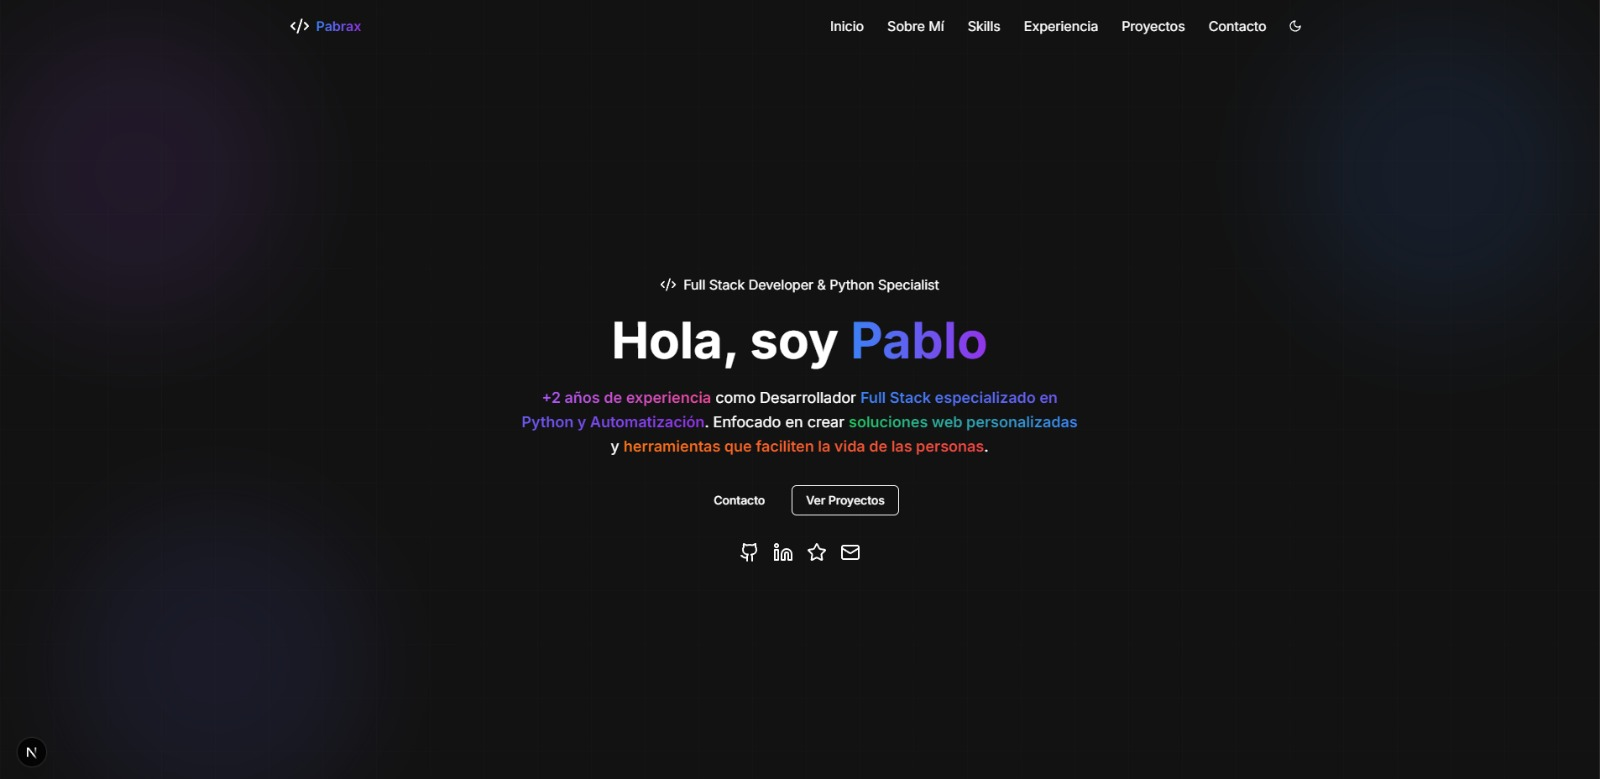
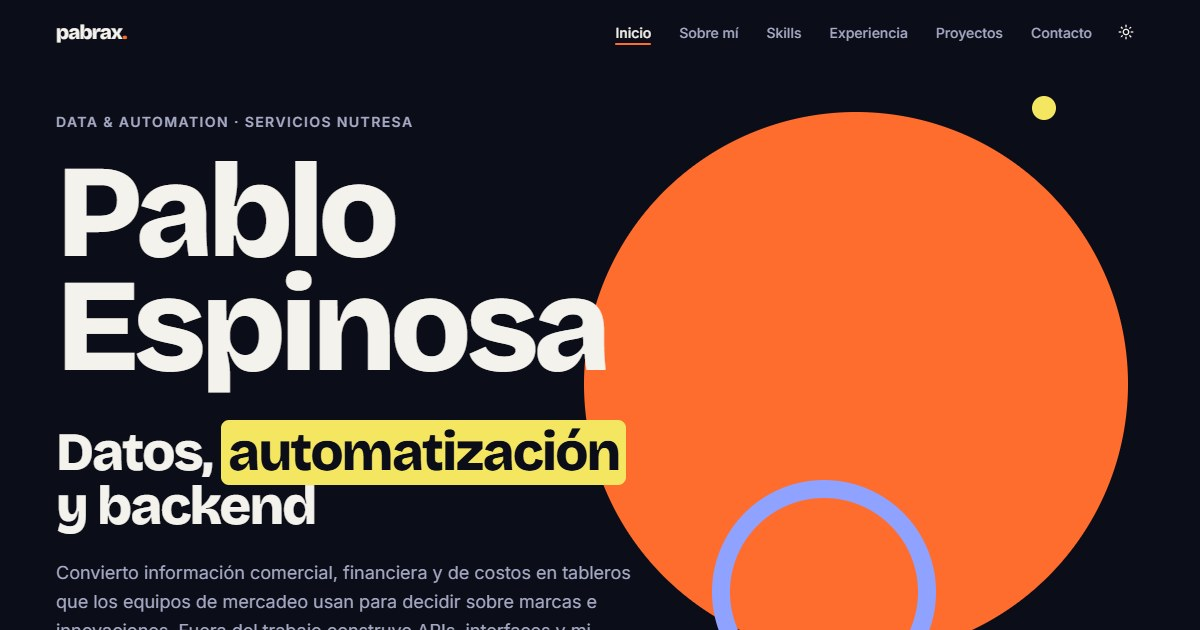
docs(readme): refresh screenshots and project structure

diff --git a/README.md b/README.md
@@ -4,7 +4,10 @@
 Un portafolio moderno, rápido y totalmente adaptable, creado con **Next.js 15**, **React 18** y **Tailwind CSS**.
 Diseñado para mostrar proyectos, habilidades y trayectoria de forma limpia y profesional.
 
-![preview_portafolio](./public/preview/portafolio_preview.jpeg)
+<p align="center">
+  <img src="public/preview/screenshots/hero-dark.png" alt="Portafolio en tema oscuro" width="49%">
+  <img src="public/preview/screenshots/hero-light.png" alt="Portafolio en tema claro" width="49%">
+</p>
 
 
 ## ✨ Características principales
@@ -38,7 +41,6 @@ git clone <tu-repositorio>
 npm install
 
 # Ejecutar en modo desarrollo
-# Ejecutar en modo desarrollo
 npm run dev
 
 # Compilar para producción
@@ -56,9 +58,12 @@ npm start
 portafolio/
 ├── app/
 │   ├── components/          # Componentes principales
+│   │   ├── sections/       # Secciones: Hero, Sobre mí, Skills, Experiencia, Proyectos, Contacto
+│   │   ├── layout/         # Navbar
+│   │   ├── common/         # Section, SectionHeading, TechBadge
 │   │   ├── ui/             # Elementos de interfaz base
-│   │   ├── theme-toggle.tsx # Switch de tema claro/oscuro
-│   │   └── ...             # Secciones del portafolio
+│   │   └── theme-toggle.tsx # Switch de tema claro/oscuro
+│   ├── data/               # Contenido tipado: perfil, skills, experiencia, proyectos
 │   ├── globals.css         # Estilos globales
 │   ├── layout.tsx          # Layout general
 │   ├── page.tsx            # Página principal
@@ -74,11 +79,19 @@ portafolio/
 
 Este portafolio está hecho para que lo adaptes fácilmente a tu estilo:
 
-1. **Contenido:** Edita los componentes dentro de `app/components/`
+1. **Contenido:** Edita los datos en `app/data/` (perfil, skills, experiencia y proyectos)
 2. **Estilos:** Ajusta los colores o fuentes en `app/globals.css` y `tailwind.config.js`
 3. **Tema:** Modifica las variables de tema según tu paleta
 4. **Componentes:** Agrega nuevas secciones o elementos reutilizables
 
+
+## 🖼 Capturas
+
+| Proyectos | Móvil |
+|---|---|
+| <img src="public/preview/screenshots/projects.png" alt="Sección de proyectos" width="640"> | <img src="public/preview/screenshots/mobile.png" alt="Vista móvil" width="240"> |
+
+Página completa: [`full-page.png`](public/preview/screenshots/full-page.png).
 
 ## Diseño Responsivo
 

diff --git a/odd/tasks/readme-screenshots.md b/odd/tasks/readme-screenshots.md
@@ -1,0 +1,18 @@
+---
+feature: readme-screenshots
+status: done
+lane: L1+
+tdd: off
+branch: docs/readme-screenshots
+---
+# README screenshots (Portafolio)
+## Specs
+- S1 "actualizar los readmes, sobretodo las imagenes que son capturas de la app, con playwright" - accept: README images are fresh Playwright captures of the running app, reproducible by script - check: images exist, README links resolve, visual review
+## Scope
+In: README(s), docs/screenshots/, capture script (outside repo tools dir). Out: app code, dependencies.
+## Constraints
+Commits authored by owner identity only, no Co-Authored-By. No push without approval (doctool: owner-created repo, push approved).
+## Tasks
+- [x] T1 Run app and capture screenshots with Playwright (Edge) - accept: PNGs non-empty and reviewed
+- [x] T2 Update README(s) to use them, fix stale text - accept: every image link resolves
+- [x] T3 Commit on docs/readme-screenshots
